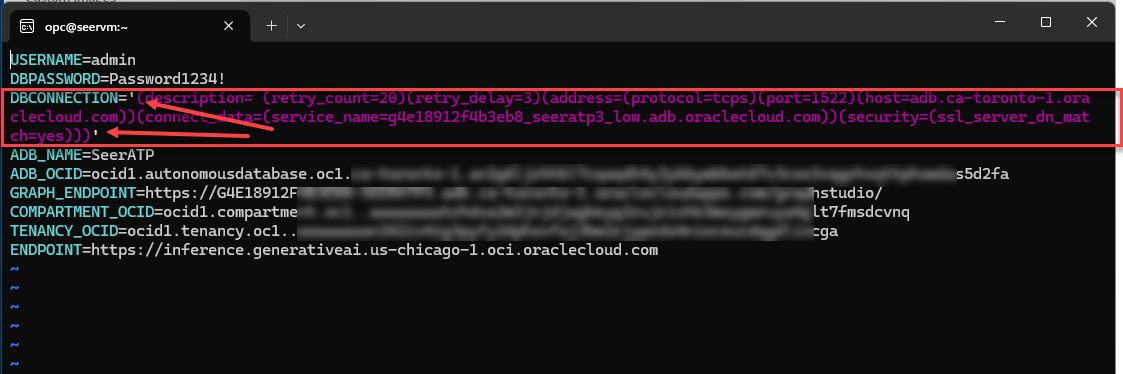
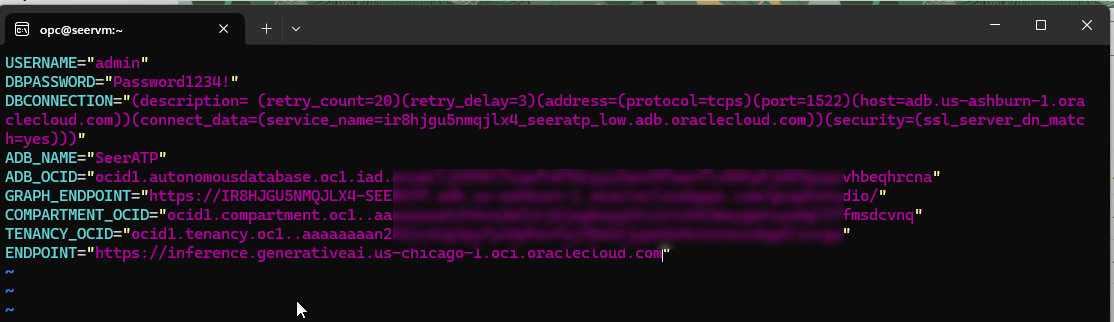
Adjusted ending.

diff --git a/dev-guide-ai-finance/local-tenancy/local-tenancy.md b/dev-guide-ai-finance/local-tenancy/local-tenancy.md
@@ -354,26 +354,21 @@ Next you'll create an environment file for the application.
         </copy>
     ````
 
-17. The following information needs to be collected and inserted into the .env file. Follow the steps to gather the required information and place it in the file.
+17. The following information needs to be collected and inserted into the .env file. Copy the 9 lines below and paste them in the .evn file. Follow the steps below to gather the required information and place it in the file.
 
-        USERNAME=
-
-        DBPASSWORD=
-
-        DBCONNECTION=
-
-        ADB_NAME=
-
-        ADB_OCID=
-
-        GRAPH_ENDPOINT=
-
-        COMPARTMENT_OCID=
-
-        TENANCY_OCID=
-
+    ```
+        <copy>
+        USERNAME=""
+        DBPASSWORD=""
+        DBCONNECTION=""
+        ADB_NAME=""
+        ADB_OCID=""
+        GRAPH_ENDPOINT=""
+        COMPARTMENT_OCID=""
+        TENANCY_OCID=""
         ENDPOINT=https://inference.generativeai.us-chicago-1.oci.oraclecloud.com
-
+        </copy>
+    ```
 
 18. The database username should be 'admin'. Use the password that you assigned to the admin user. (Password1234!)
 
@@ -602,25 +597,29 @@ Streamlit is up and running. Press Control + C on your keyboard to escape.
         </copy>
     ````
 
-2. Run the following command.
+2. Change the permissions on the shell_script.sh file to executable.
+
+    ```
+        <copy>
+        chmod +x shell_script.sh
+        </copy>
+    ```
+
+3. Run shell script file to populate the database and configure the application. Run the following command.
 
     ````
         <copy>
-        sh shell_script.sh
+        ./shell_script.sh
         </copy>
     ````
 
-3. Open an a web browser.
+4. Open a web browser.
 
-4. Type in the IP address of the VM followed by :8501 into the incognito window.. You can obtain it from the OCI Console - VM details screen.
+5. Type in the IP address of the VM followed by :8501 into the incognito window.. You can obtain it from the OCI Console - VM details screen.
 
-5. Success! You should see the application start screen.
+6. Success! You should see the application start screen.
 
     ![Application start screen](./images/application-start-screen.png " ")
-
-6. Type in a user name (TestUser) and run through the demo.
-
-    ![Application dashboard](./images/application-dashboard.png " ")
 
 Congratulations, you have built and configured the Loan Management application using Oracle Cloud Insfrastructure, Oracle Autonomous Database, and Oracle GenAI!
 
